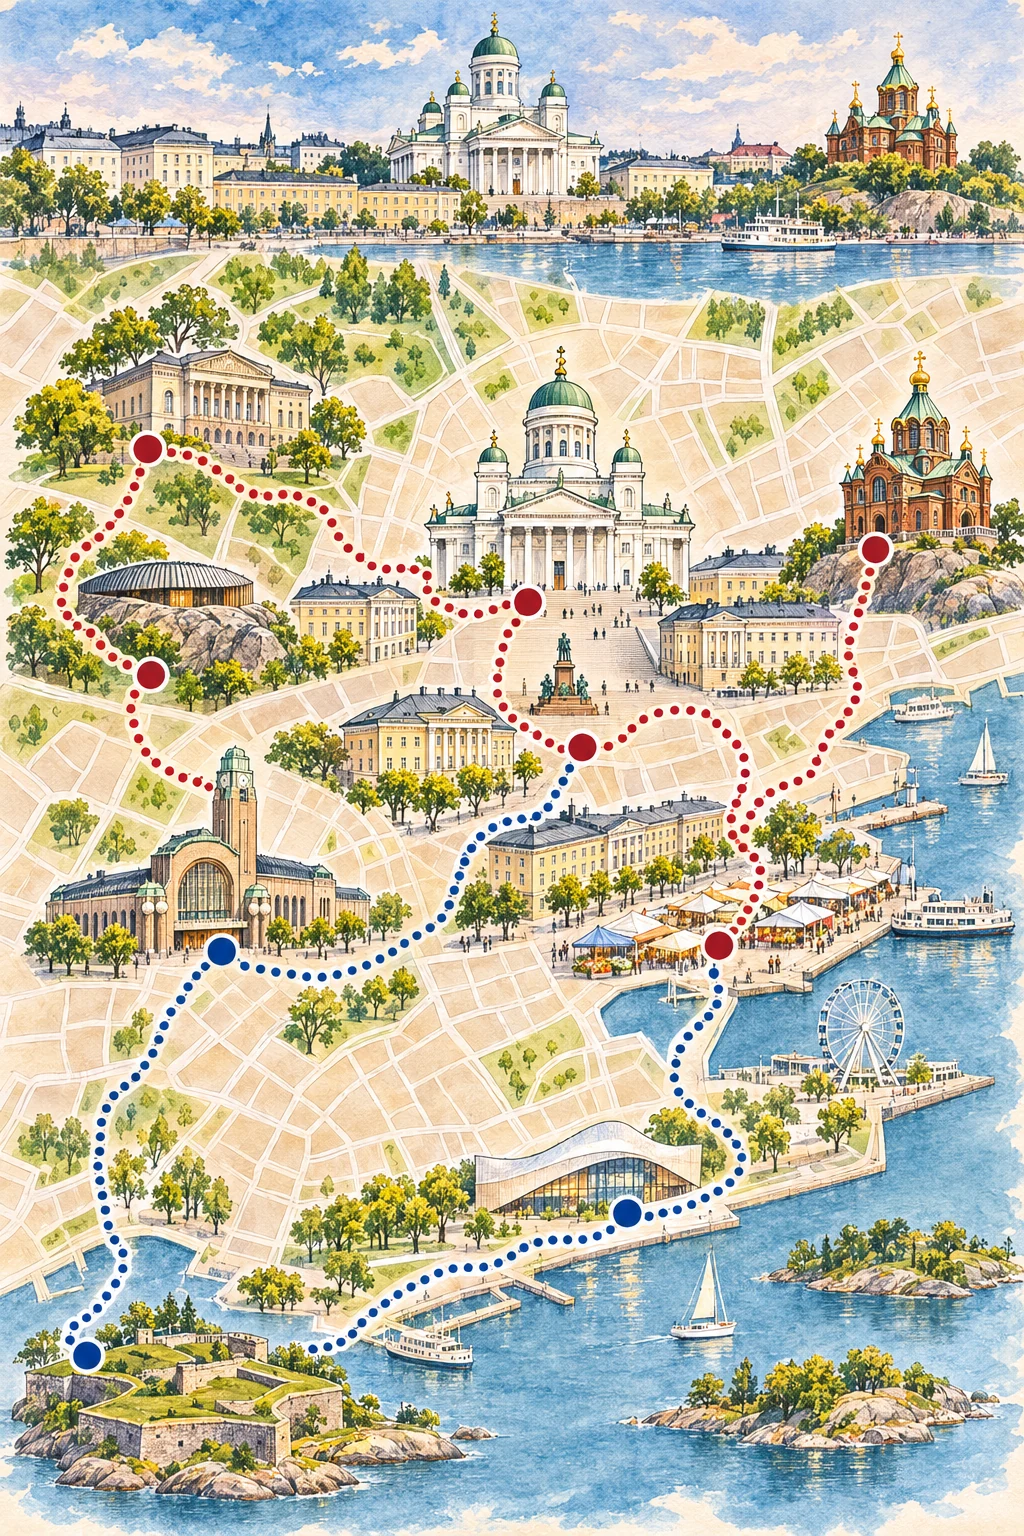
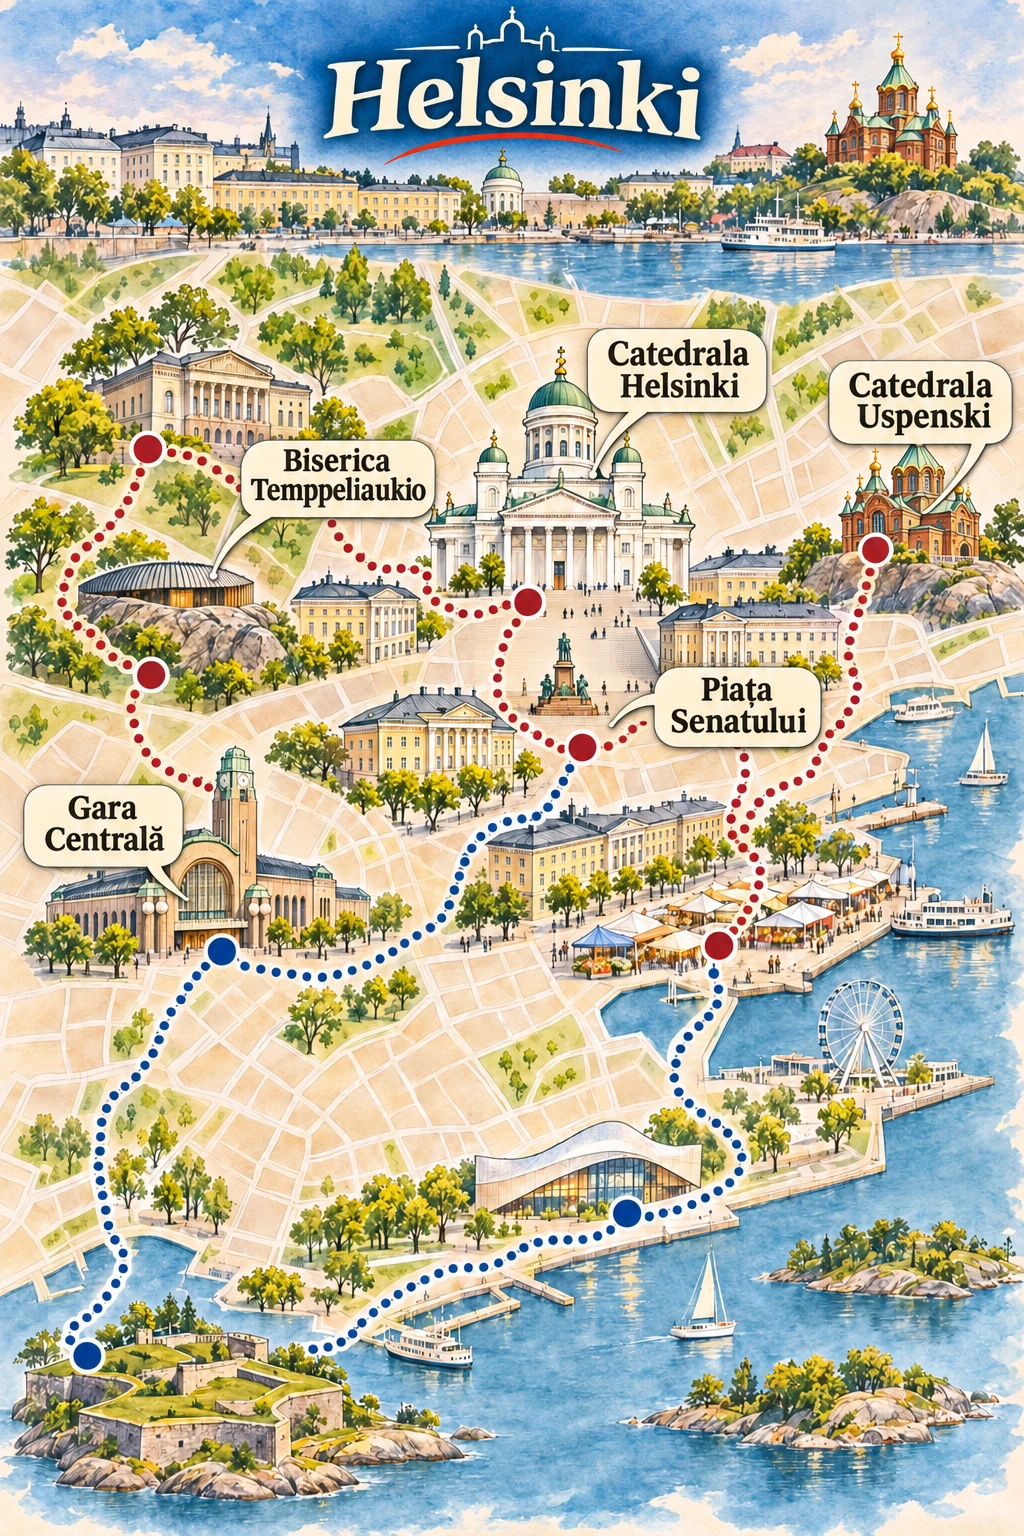
Label Helsinki guide map

Changed region(s): [[0.0, 0.0, 1.0, 1.0], [0.4688, 0.6875, 0.5625, 0.7188]]

diff --git a/ILUSTRATII.md b/ILUSTRATII.md
@@ -44,9 +44,10 @@ Se adaugă numele obiectivelor direct pe hărțile existente, în stilul aprobat
 - Nisa
 - Marsilia
 - Glasgow
+- Helsinki
 
 Harta originală pentru Praga avea deja etichete. Celelalte orașe din `assets/guides-prague-style/` necesită în continuare verificare și prelucrare. Actualizează această listă în același commit cu fiecare lot nou.
 
-Ilustrațiile fără etichete sunt păstrate în istoricul Git: pentru Roma și Barcelona folosește fișierul de la commitul `14f016a`, iar pentru Paris, Londra, Lisabona, Berlin și Bruxelles de la `508e691`. Pentru Budapesta, Atena, Veneția, Amsterdam, Viena, Milano, Madrid, Bologna, Lyon, Porto, Varșovia, Copenhaga, Edinburgh, Bruges, Köln, Dublin, Cracovia, Stockholm, Chișinău, Bratislava, Sofia, Oslo, Bari, Napoli, Sevilla, Istanbul, Dubrovnik, Palermo, Pisa, Florența, Valencia, Nisa, Marsilia și Glasgow se pot folosi originalele de la `48efdd5`. Copii locale sunt în `/workspace/guide-batch/original-illustrations` când acel director este disponibil. Păstrează imaginile originale pentru quiz.
+Ilustrațiile fără etichete sunt păstrate în istoricul Git: pentru Roma și Barcelona folosește fișierul de la commitul `14f016a`, iar pentru Paris, Londra, Lisabona, Berlin și Bruxelles de la `508e691`. Pentru Budapesta, Atena, Veneția, Amsterdam, Viena, Milano, Madrid, Bologna, Lyon, Porto, Varșovia, Copenhaga, Edinburgh, Bruges, Köln, Dublin, Cracovia, Stockholm, Chișinău, Bratislava, Sofia, Oslo, Bari, Napoli, Sevilla, Istanbul, Dubrovnik, Palermo, Pisa, Florența, Valencia, Nisa, Marsilia, Glasgow și Helsinki se pot folosi originalele de la `48efdd5`. Copii locale sunt în `/workspace/guide-batch/original-illustrations` când acel director este disponibil. Păstrează imaginile originale pentru quiz.
 
 Nu modifica funcționalitatea de căutare a zborurilor în cadrul acestei activități.
